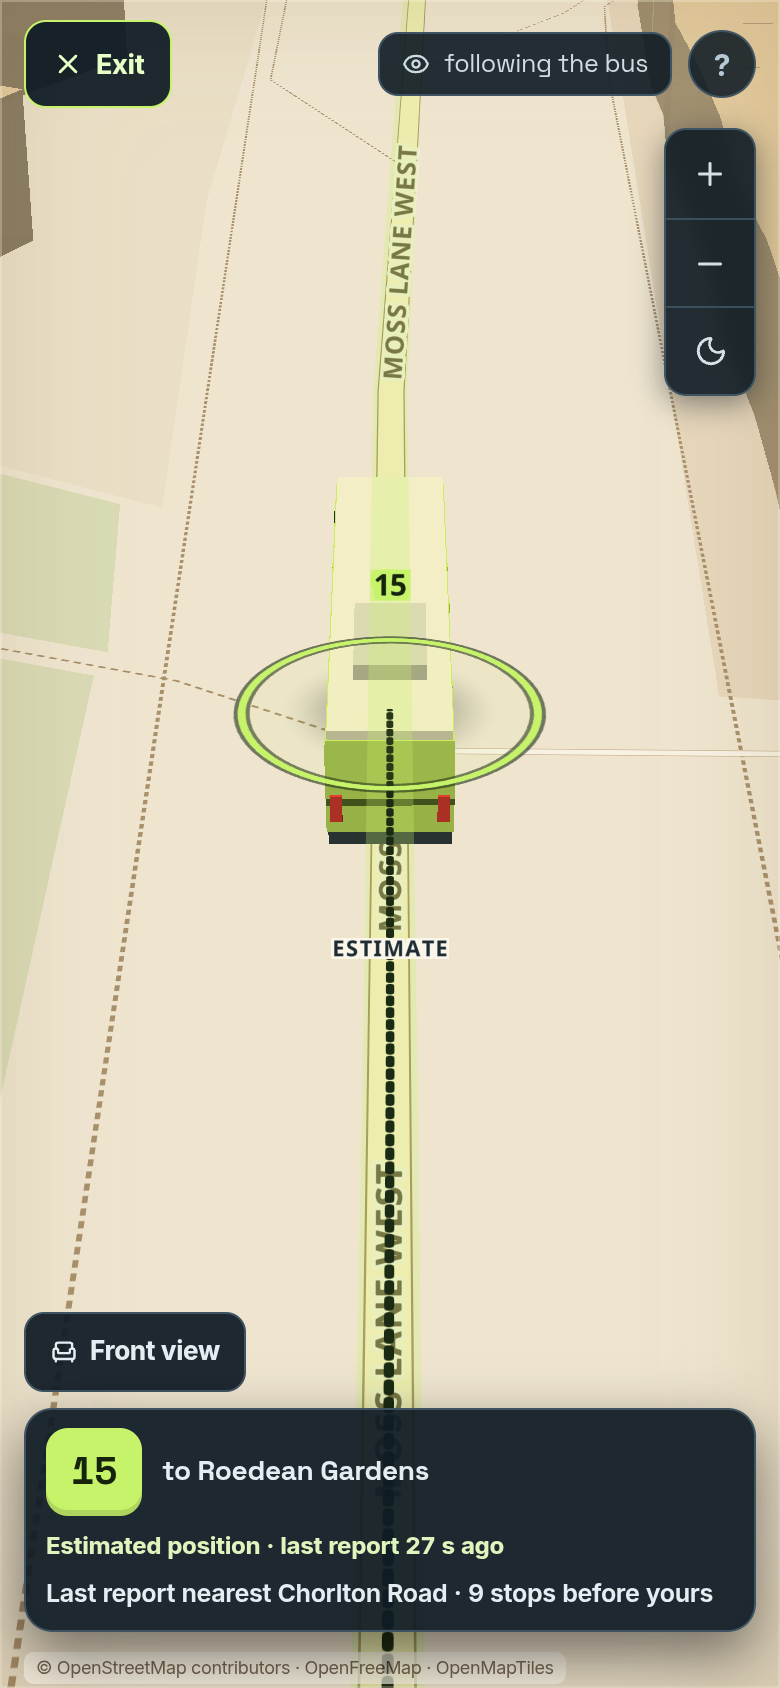
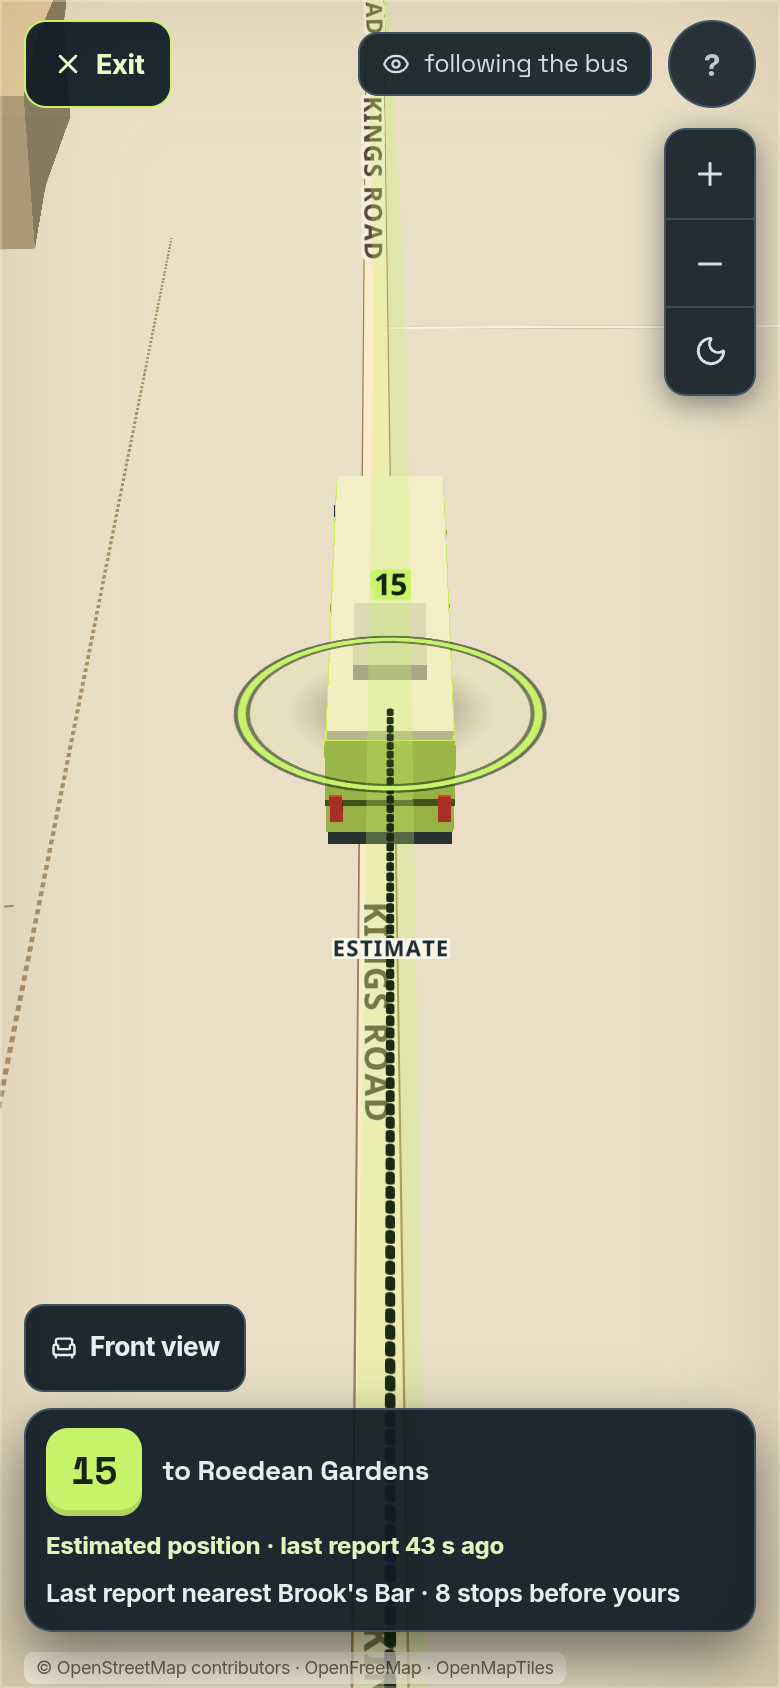
Measure the coverage gain against one fixed capture, not two different evenings
The claim that adding Go North West's timetables cut no_pattern_for_route from 48
to 21 compared two live publications an hour apart, 218 vehicles against 197. The
traffic changed as well as the catalogue, so that could not show cause.

Asked instead of one stored capture of 653 weekday-afternoon reports, both
catalogues in turn: reports with no registration held at all fall from 174 to 109,
and the whole of that difference is 13 services that gained one. The two live
publications are kept, described as separate snapshots of their own moments.

What is left is a scatter, not one gap: Diamond, BPTR, LNUD, NATX and HIPK are not
downloaded, and BNML 38 and 150 and BNSM 1 and 2 are missing from datasets we do
hold, which is a different fault and now has its own action.

Also: the 78 per cent bearing rate is qualified by the publication it came from
(154 of 197 vehicles, 18 September, about 23:39), and the recording's stills are
documented as showing the drawn estimate, with its label and its dashed line back
to the last observation, so no frame gets captioned as an observation later.

diff --git a/docs/RELEASE.md b/docs/RELEASE.md
@@ -126,9 +126,13 @@ with any other app.
    measured and carried in the feedback report, which will settle it on the first real phone.
 5. **Route 256 cannot be placed on a weekday**, because the operator's current registration has no
    Monday-to-Friday inbound service. Upstream; not fixable here. Use route 15 for trials.
-6. **127 of 587 buses have no timetable held at all**, almost all one operator group (BNGN's 10, 37,
-   36, 8, V1). One configuration line and a rebuild would close most of it; the dataset has not been
-   identified.
+6. **Buses with no timetable held at all: fewer, and the remainder is now a scatter.** The missing
+   operator group was Go North West, dataset 12769; it is now downloaded and built. Asked of one
+   fixed capture of 653 weekday-afternoon reports, the count with no registration held falls from
+   **174 to 109** — the whole of that difference is 13 services that gained one. What is left is
+   46 services across several operators, led by **BNML 38** (a BNML line absent from the BNML
+   dataset, which deserves its own look), BNGN 10 and 8, and BPTR X43. `docs/COVERAGE.md` has the
+   method.
 7. **139 of 587 are held unresolved between branches.** A refusal, not an error, and the honest cost
    of wider coverage.
 8. **The collector's memory over *days* is still unconfirmed.** At the server's thread count it is
@@ -197,7 +201,8 @@ Optional polish, in the order I would take it.
 | Action | Why | Owner |
 |---|---|---|
 | Split the live publication (opportunity 25) | 119 KB every 20 s on mobile data is more than the job needs | assistant |
-| Add the missing operator's timetable dataset to `BODS_TIMETABLE_URL` | would move most of the 127 "no timetable held" buses into coverage; one line and a rebuild | **Hammam** to identify the dataset, assistant to add and verify |
+| ~~Add the missing operator's timetable dataset~~ | **done** — Go North West, dataset 12769; 174 → 109 uncovered reports on a fixed capture | assistant |
+| Trace **BNML 38**, a BNML line missing from the BNML dataset | 12 reports in one capture refused for a reason that should not apply | assistant |
 | Road shapes for more routes | extends estimated movement past 15, 250 and 256 | assistant |
 | Identify the timetabled journey | the last claim the app deliberately does not make | assistant |
 
@@ -212,12 +217,31 @@ for anywhere that will not play WebM; there is no ffmpeg on this machine, so not
 It runs: the first screen → searching for a stop → the stop and what is coming → riding along, full
 screen → the street ahead → back at the stop → behind the data → the coverage ledger.
 
-**The take is honest about itself, and this one is not representative.** `recording.json` records
-which bus was ridden and whether it reported a bearing. The bus available at 21:15 on a Friday
-reported **none**, so it is drawn correctly as a round token from above rather than as the 3D bus,
-and it was **26 stops away**, so the ride passes through empty streets. The probe says so in its own
-output. **Re-record during daytime service before showing it to anyone**: same command, and the
-recording will judge itself again.
+**The take is honest about itself, and it says how the bus was chosen.** The first attempt filmed
+the page's own suggestion, which happened to be a bus reporting **no bearing** — correctly drawn as
+a round token seen from above rather than as the 3D bus, and 26 stops away through empty streets.
+Honest, but not what the ride-along looks like: in **the publication that recording was made
+against** (18 September, about 23:39 BST) **154 of 197 vehicles, 78%, reported a bearing**. That is
+one late-evening publication, not a general rate. The
+probe now tries the buses coming to the stop in turn until one of those is on the card, and
+`recording.json` records the choice and the reason:
+
+> `chosen: {"key": "BNML|MF74NPJ", "bearing": 239, "row": 0}`
+> `judge: the ridden bus reported a bearing (239), so the 3D bus and its heading are shown, and it
+> was chosen from the buses coming to this stop for that reason`
+
+Nothing is staged by that: it is a real bus at its real position, and if no bus coming to the stop
+reports a bearing the page's own suggestion is filmed and the recording says so instead.
+
+**What the stills show is the drawn bus, which is an estimate, and they say so.** The ride-along
+frames carry the app's own wording — *"Estimated position · last report 43 s ago"* — because between
+reports the app draws where the bus has probably got to, on the road shape, bounded and labelled.
+The dots behind it are the observations; the dashed line is the gap between the last one and the
+drawing. Nothing in the recording is an observation of the bus being where it is drawn, and no
+frame should be captioned as one when the recording is used elsewhere.
+
+**Still worth re-recording in daytime service**, when more buses are running and the ride passes
+more of the city: same command, and the recording judges itself again.
 
 ## The demo sequence
 

diff --git a/PROJECT_CONTEXT.md b/PROJECT_CONTEXT.md
@@ -652,9 +652,12 @@ Executed, with the check in the repository. Numbers from earlier milestones are 
   checked, so branches are settled only by the reported destination, and **no scheduled time at a
   stop is ever shown**. Identifying the timetabled journey is the next priority (2 below).
 - **Bank-holiday operation is recorded, not evaluated.**
-- **Coverage is limited to the timetables held:** three TfGM operator datasets (BNML, BNSM, BNFM).
-  **130 observed services have no timetable here** (18 September 2026), the largest by reports being
-  BNGN's 10, 37, 36, 8 and V1, and their buses are refused with that reason. Ambiguity grew with
+- **Coverage is limited to the timetables held:** four TfGM operator datasets (BNML, BNSM, BNFM and,
+  since 19 September 2026, Go North West's **BNGN**). **114 observed services still have no timetable
+  here** (18 September 2026), and their buses are refused with that reason. What is left is a
+  scatter across several operator groups rather than one gap: Diamond (**BNDB**: 66, 87, 79, 151, 29,
+  70, 74), **BPTR** X43, **LNUD**, **NATX**, **HIPK** — and, oddly, **BNML 38 and 150** and **BNSM 1
+  and 2**, lines whose own operator's dataset we hold, which is a separate thing to trace. Ambiguity grew with
   coverage: more patterns mean more paths that fit a position equally well, and those stay
   unresolved — 139 of 587 vehicles in one publication.
 - **The ride-along bus is a stylised generic model** at true scale (12 m); it identifies
@@ -831,20 +834,25 @@ build-machine path and no tile ever loaded.
 
 - **3,498 active bus stops** in the service area, from NaPTAN ATCO area 180, each with its
   indicator, street and, where NaPTAN has one, the direction a bus travels there.
-- **Timetables:** three TfGM TransXChange datasets are preserved, one per operator group
-  (**BNML, BNSM, BNFM**). The collector re-downloads them while it runs and stores each distinct
+- **Timetables:** four TfGM TransXChange datasets are preserved, one per operator group
+  (**BNML, BNSM, BNFM, BNGN**). The collector re-downloads them while it runs and stores each distinct
   version by content hash; **only the newest snapshot of each is read**, because reading them all
-  counted the same service twice. On 18 September 2026, **575 files** were read — every file whose
-  declared validity touches the fortnight ahead — and 538 expired ones were not.
+  counted the same service twice. On 18 September 2026, **633 files** were read — every file whose
+  declared validity touches the fortnight ahead — and 555 expired ones were not.
 - **Selection:** every operator-and-line pair seen in the collected positions that has a valid
-  file: **157 services, 524 patterns, 522 distinct stop sequences published**. A pattern is
+  file: **183 services, 576 patterns, 574 distinct stop sequences published** (BNML 259, BNSM 255,
+  BNGN 52, BNFM 10). A pattern is
   published when it calls at a stop inside the area and has at least five stops. `--coverage all`,
   `--lines` and `--max-lines` are explicit alternatives, and whichever is used is written into
   `patterns.json` under `coverage`, with the observed services that have no timetable.
-- **130 observed services still have no timetable here**, led by BNGN's 10, 37, 36, 8 and V1
-  (20,000–27,500 observations each). That is one operator group whose dataset is not downloaded,
-  not a scatter: one line in `BODS_TIMETABLE_URL` and a rebuild would close most of it.
-- `patterns.json` is 2.04 MB (140 KB gzipped), fetched once. `docs/COVERAGE.md` audits all of this
+- **114 observed services still have no timetable here.** Adding Go North West closed the single
+  largest gap; measured on **one fixed capture of 653 weekday-afternoon reports asked of both
+  catalogues**, reports with no registration held fell from **174 to 109**, all of it 13 services
+  that gained one. The remainder is a scatter of operator groups whose datasets are not downloaded
+  (BNDB, BPTR, LNUD, NATX, HIPK), plus a handful of lines — **BNML 38** (20,808 observations),
+  BNML 150, BNSM 1 and 2 — whose own operator's dataset we do hold and which therefore need tracing
+  rather than downloading.
+- `patterns.json` is 2.06 MB (160 KB gzipped), fetched once. `docs/COVERAGE.md` audits all of this
   service by service, and the same ledger is in the app under Behind the data.
 
 ## Next priorities

diff --git a/docs/COVERAGE.md b/docs/COVERAGE.md
@@ -81,13 +81,50 @@ group and cannot supersede BNML or BNSM. It covered **9 of the 11 BNGN lines the
 | `patterns.json`, fetched once | 2.04 MB / 139 KB gz | **2.16 MB / 154 KB gz** |
 | Nightly rebuild peak | 853 MB, 3 min 05 s | **845 MB, 3 min 55 s** |
 
-Measured against a live publication the same night:
+### What the import caused, measured on one fixed set of reports
 
-| | Before | After |
+The first attempt at this compared two live publications taken an hour apart — 218 vehicles before,
+197 after. That cannot support a causal claim: the traffic changed as well as the catalogue. The
+controlled version asks **one capture** the same question of **both catalogues**, so the only
+difference is the catalogue.
+
+Capture `043e9270aada`, stated **2026-09-17T15:28:29Z**, a weekday afternoon, **653 vehicles inside
+the service area**:
+
+| Asked of the same 653 reports | Before the import | After |
 |---|---|---|
-| `no_pattern_for_route` — no registration held at all | **48** | **21** |
-| BNGN vehicles placed on a pattern | **0 of 27** | **11 of 26** |
-| Matched, all operators | 86 of 218 (39%) | 93 of 197 (47%) |
+| A registration is held for this operator and line | 479 | **544** |
+| **No registration held at all** | **174** | **109** |
+
+**13 services gained a registration, accounting for 65 of those reports** — BNGN's V1 (13), 36 (10),
+37 (9), V2 (6), 163 (6), 21 (6), 35 (4), 22 (3) and smaller.
+
+**What this measures, and what it does not.** It measures exactly the refusal the import targets:
+`no_pattern_for_route`, a bus whose operator-and-line we hold no registration for. It says nothing
+about the other refusals — an unsettled branch, no journeys that day, too far from any stop — which
+depend on the position and the day and would need the full matcher over the same capture to
+compare.
+
+**Still no registration at all: 46 services, 109 of those reports**, led by **BNML 38** (12 reports —
+a BNML service missing from the BNML dataset, which is worth its own look), **BNGN 10** (10) and
+**BNGN 8** (9), **BPTR X43** (7), **BNML 150** (6) and **BNSM 1** (6).
+
+### Two live snapshots, reported as snapshots
+
+Separately, and **not** as a before-and-after: two publications either side of the import, each a
+description of its own moment and not comparable with the other, because the fleet on the road
+changed between them.
+
+| | 18 Sep, 23:32 BST | 18 Sep, ~23:47 BST |
+|---|---|---|
+| Vehicles in the publication | 218 | 197 |
+| Matched to a pattern | 86 | 93 |
+| `no_pattern_for_route` | 48 | 21 |
+| BNGN vehicles placed | 0 of 27 | 11 of 26 |
+
+Both were taken late on a Friday evening, when far fewer services run. Neither is a daytime figure,
+and the movement between them should be read as consistent with the controlled result above rather
+than as evidence for it.
 
 **What it did not fix, and was never going to.**
 
